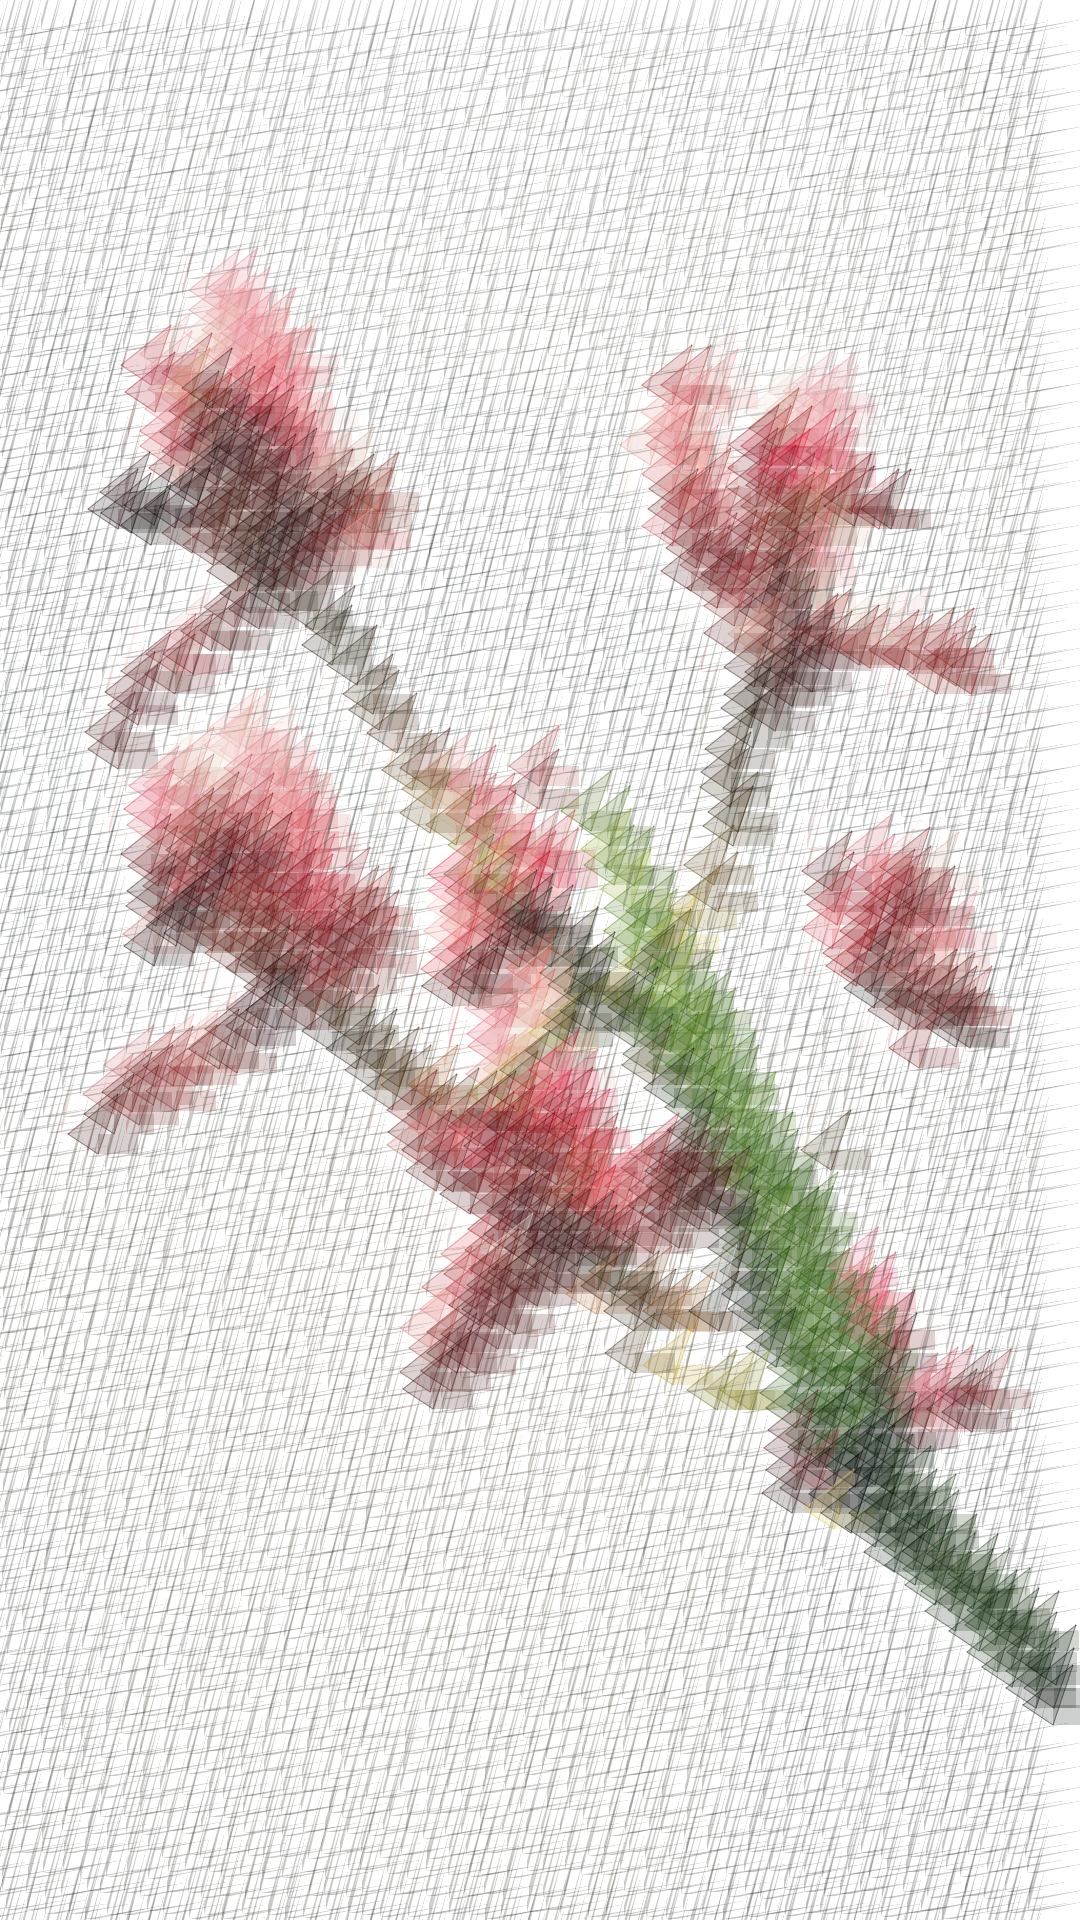
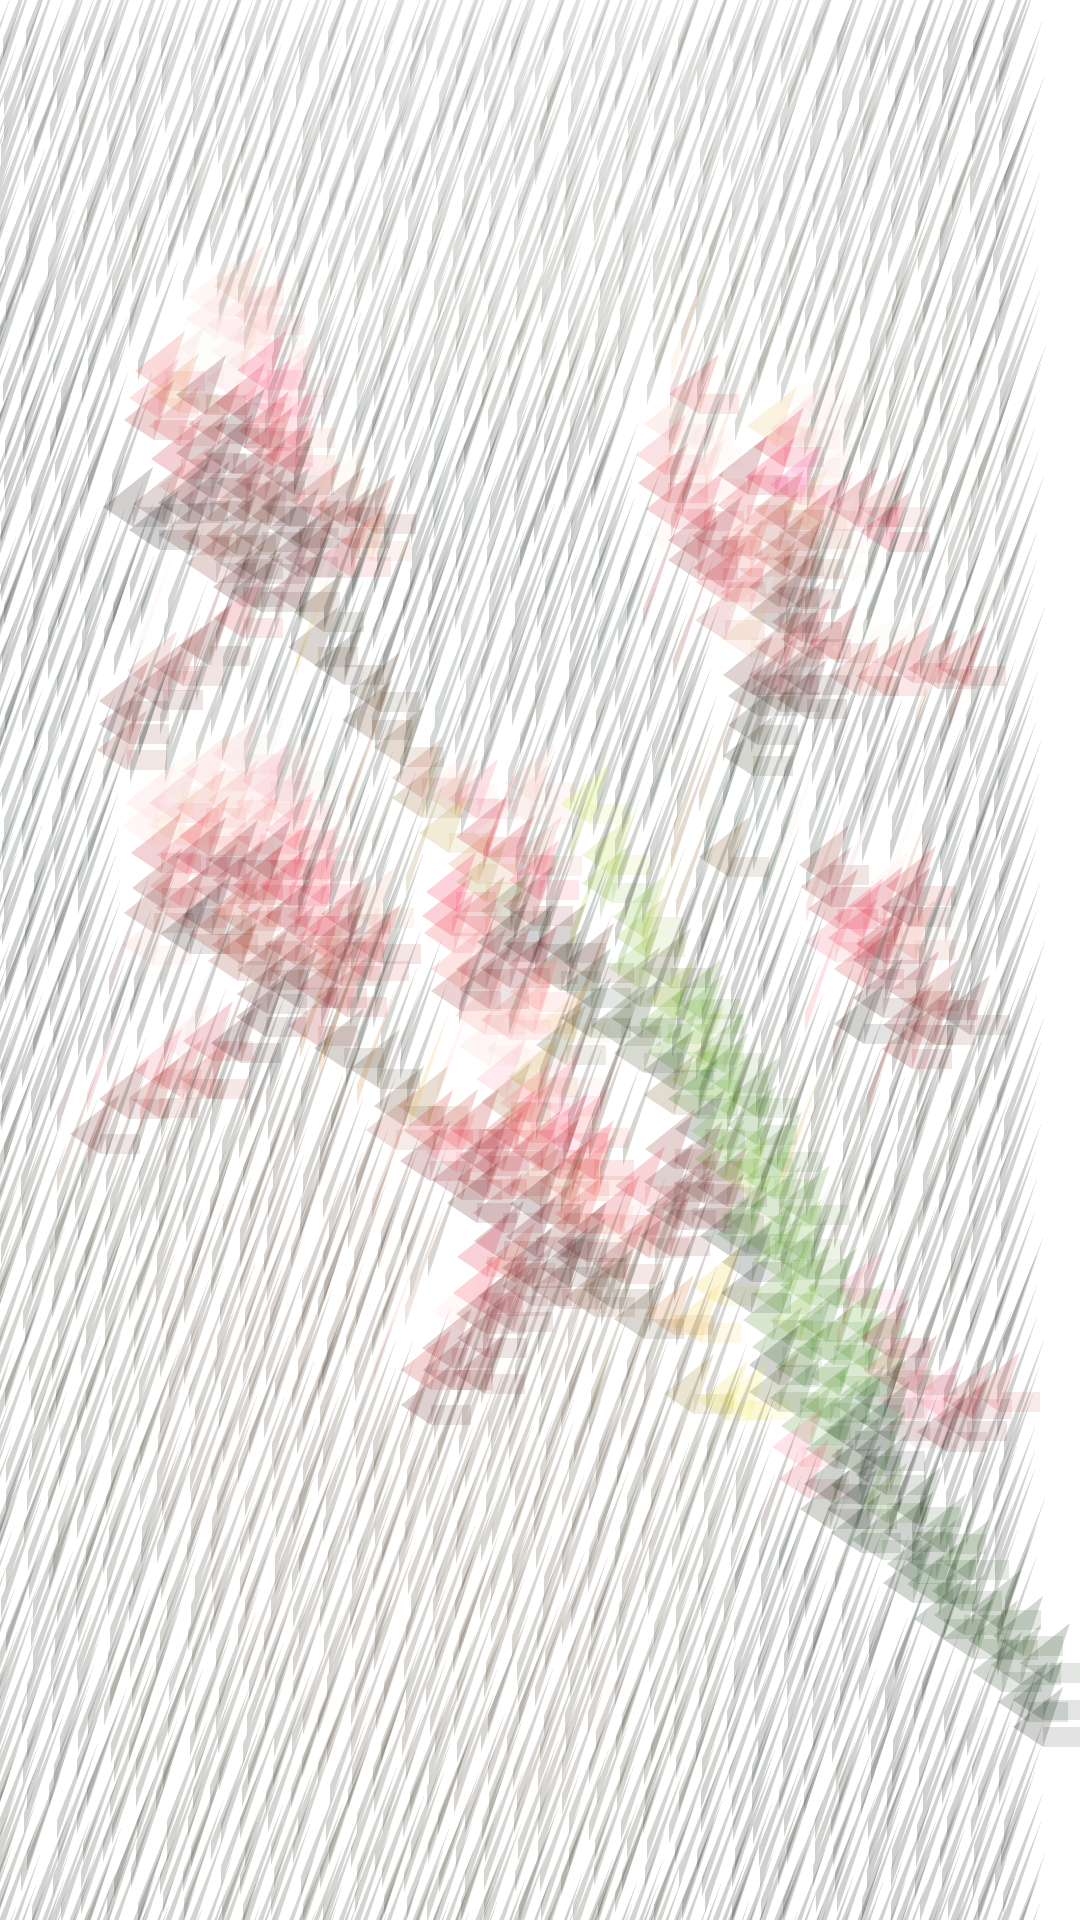
Updated with second final image]

diff --git a/sketch.js b/sketch.js
@@ -13,8 +13,8 @@ let renderCounter=0;
  let tri3 = 40;
 
 function preload() {
-  sourceImg = loadImage("input_1.jpg");
-  maskImg = loadImage("mask_1.png");
+  sourceImg = loadImage("input_2.jpg");
+  maskImg = loadImage("mask_2.png");
 }
 
 function setup () {

diff --git a/README.md b/README.md
@@ -1,3 +1,3 @@
 ## Creative Coding 2: Custom Pixel
 
-This is my final image for the first piece. I like how the flowers look like they are made out of crystals and that the hanging stems of the flowers look like shards of shattered galss falling down. The colouring with the opacity makes it looks really interesting and pretty. The background I like how it looks like hairs and get gradually lighter as you go down. Overall I an pretty happy with this first image. I increased the staturation a but to make it so that the glass was more vibrant and I think that it worked out well as it shines almost in a way like crystals.
+Here is the final second image of a orchid branch. I really like how this image turned out as the smaller flowers I think really show that it looks ike it is made up of crystals. The triangles and squares are interesting and I think that the opacity matches really well. The background of shattered glass look really interesting as well as it looks like it is made out of hairs as well. The simple image of this i think works well and I like how it turned out. 
